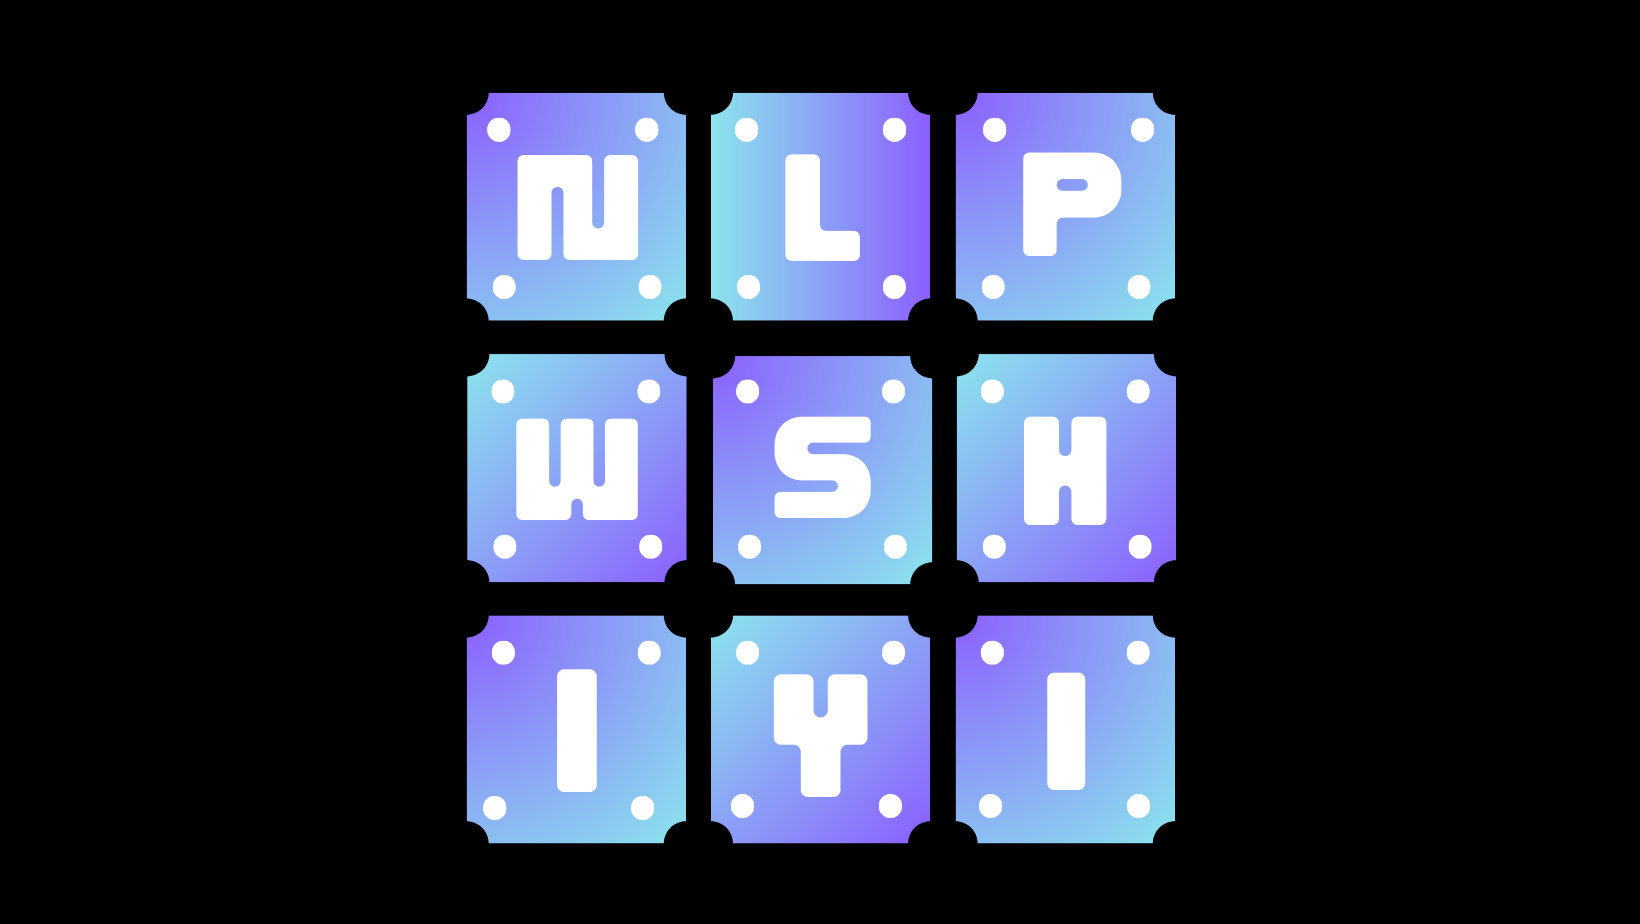
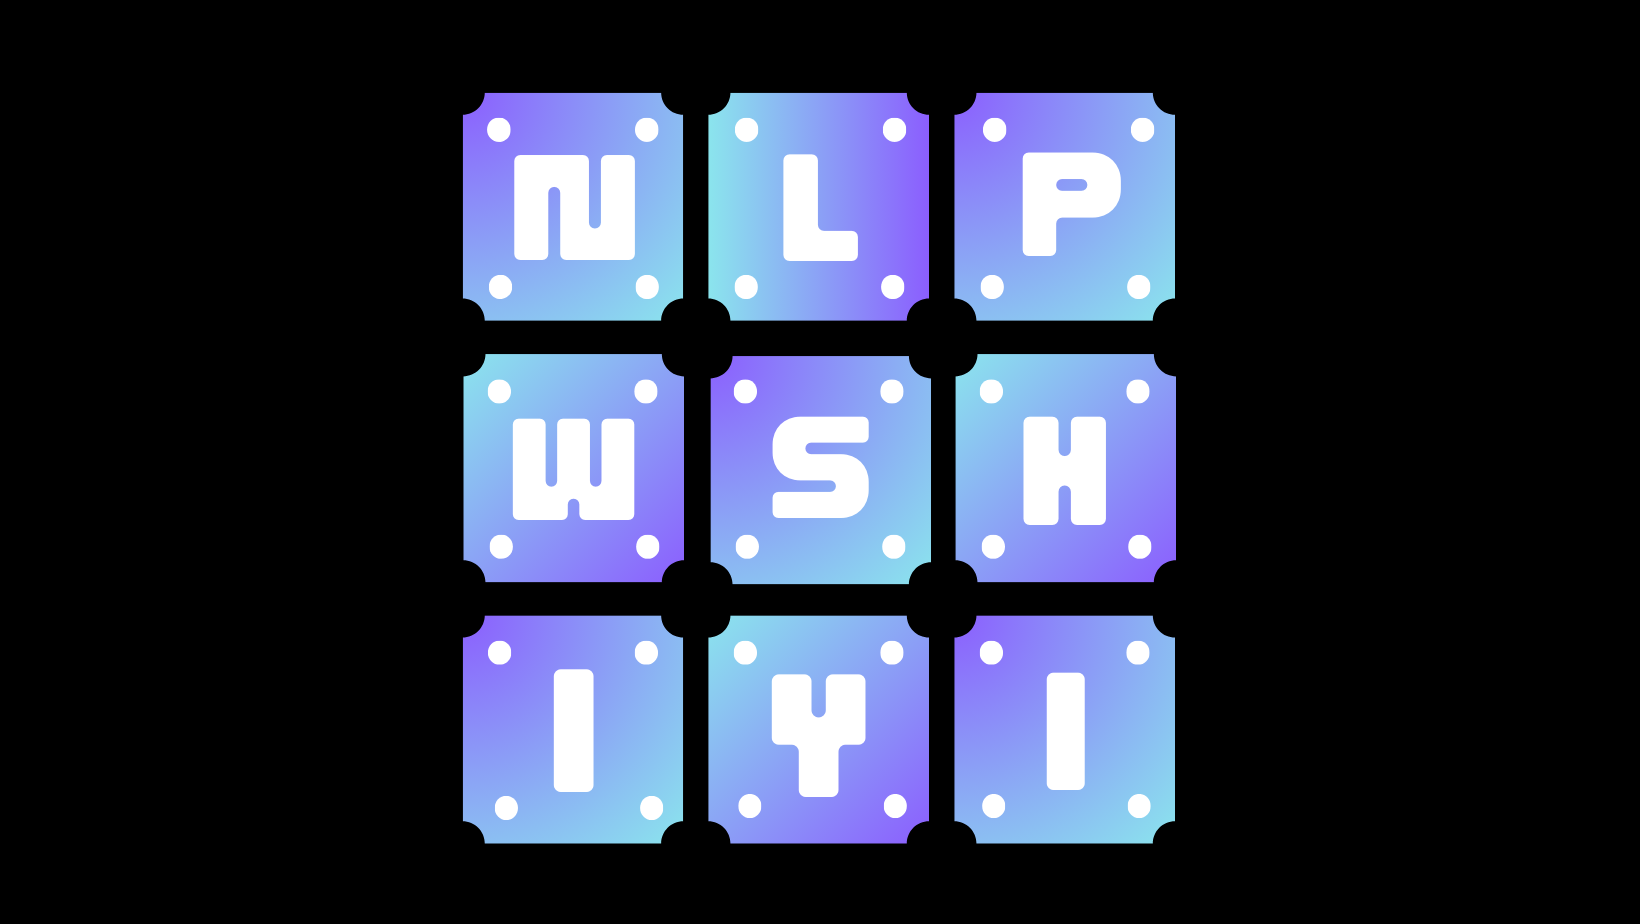
Deploying to main from  @ de4f84815487e2519d6d1444a09f3aa14193af24 🚀

diff --git a/index.html b/index.html
@@ -1,4 +1,4 @@
-<!doctype html> <html lang=en > <meta charset=UTF-8 > <meta name=viewport  content="width=device-width, initial-scale=1"> <link rel=stylesheet  href="/nlpwme/libs/highlight/styles/github.min.css"> <link rel=stylesheet  href="/nlpwme/css/franklin.css"> <link rel=stylesheet  href="https://fonts.googleapis.com/css?family=Source+Sans+Pro:400,700,400italic|Source+Code+Pro:400,700" type="text/css"> <link rel=stylesheet  href="/nlpwme/css/font-awesome.min.css"> <link rel=stylesheet  href="/nlpwme/css/celeste.min.css"> <link rel=icon  type="image/png" sizes=200x200  href="/nlpwme/assets/robot.png"> <link rel=icon  type="image/png" sizes=152x152  href="/nlpwme/assets/robot_smaller_152x152.png"> <link rel=icon  type="image/x-icon" sizes=64x64  href="/nlpwme/assets/robot_smaller_64x64.png"> <link rel=icon  type="image/x-icon" sizes=32x32  href="/nlpwme/assets/robot_smaller_32x32.png"> <link rel=icon  type="image/png" sizes=64x64  href="/nlpwme/assets/robot_smaller_64x64.png"> <link rel=icon  type="image/png" sizes=32x32  href="/nlpwme/assets/robot_smaller_32x32.png"> <title>NLPwShiyi - Natural Language Processing with Shiyi</title> <nav id=navbar  class=navigation  role=navigation > <input id=toggle1  type=checkbox  /> <label class=hamburger1  for=toggle1 > <div class=top ></div> <div class=meat ></div> <div class=bottom ></div> </label> <nav class="topnav mx-auto" id=myTopnav > <div class=dropdown > <button class=dropbtn >Comp Ling <i class="fa fa-caret-down"></i> </button> <div class=dropdown-content > <a href="/nlpwme/modules/1b-info-theory">Information Theory</a> <a href="/nlpwme/modules/1c-noisy-channel-model">The Noisy Channel Model</a> <a href="/nlpwme/modules/1d-finite-automata">FSAs and FSTs</a> <a href="/nlpwme/modules/1e-mutual-info">Mutual Information</a> <a href="/nlpwme/modules/1f-cky-algorithm">CKY Algorithm</a> <a href="/nlpwme/modules/1g-viterbi">Viterbi Algorithm</a> <a href="/nlpwme/modules/2b-markov-processes">Markov Processes</a> <a href="/nlpwme/modules/1h-semantics">Logic and Problem Solving</a> <a href="/nlpwme/modules/1j-bayesian">Bayesian Inference</a> </div> </div> <div class=dropdown > <button class=dropbtn  >ML / DL <i class="fa fa-caret-down"></i> </button> <div class=dropdown-content > <a href="/nlpwme/modules/2e-jax">Jacobian Matrices Derivation</a> <a href="/nlpwme/modules/2d-automatic-differentiation">Automatic Differentiation</a> <a href="/nlpwme/modules/2f-loss-functions">Stochastic GD</a> <a href="/nlpwme/modules/2c-word2vec">Word2Vec</a> <a href="/nlpwme/modules/2g-batchnorm">Batchnorm</a> <a href="/nlpwme/modules/2j-perplexity">Perplexity</a> <a href="/nlpwme/modules/2h-dropout">Dropout</a> <a href="/nlpwme/modules/2i-depth">Depth: Pros and Cons</a> <a href="/nlpwme/modules/2k-VAE">Variational Autoencoders</a> <a href="/nlpwme/modules/2l-dnns">DNNs(RNNs, CNNs, (Bi)-LSTM)</a> </div> </div> <a href="/nlpwme/" class=active >Intro </a> <div class=dropdown > <button class=dropbtn  >SOTA <i class="fa fa-caret-down"></i> </button> <div class=dropdown-content > <a href="/nlpwme/modules/3a-transformers"> GPT (Generative Pre-trained Transformer) </a> <a href="/nlpwme/modules/3b-xlnet"> XLNet (Generalized Autoregressive Pretraining) </a> <a href="/nlpwme/modules/3c-roberta"> RoBERTa (Robustly optimized BERT approach) </a> <a href="/nlpwme/modules/3d-t5"> T5 (Text-to-Text Transfer Transformer) </a> <a href="/nlpwme/modules/3e-clip"> CLIP (Contrastive Language-Image Pre-training) </a> </div> </div> <div class=dropdown > <button class=dropbtn  >Hands-on <i class="fa fa-caret-down"></i> </button> <div class=dropdown-content > <a href="/nlpwme/modules/4a-mlp-from-scratch">MLP from Scratch</a> <a href="/nlpwme/modules/4b-generative-adversarial-networks">GAN Example </a> <a href="/nlpwme/modules/4c-vae-mnist">VAE for MNIST</a> <a href="/nlpwme/modules/4d-bi-lstm-crf">BI-LSTM-CRF Seq2Seq</a> <a href="/nlpwme/modules/4e-c4fe-tbip">Measuring Subjectivity with VAE</a> <a href="/nlpwme/modules/4g-etl-job">Serverless ETL Example</a> <a href="/nlpwme/modules/4h-ocr-data-aug">OCR Text Augmentation</a> <a href="/nlpwme/modules/4i-neo4j-gql">Neo4j GQL Example</a> </div> </div> </nav> </nav> <script src="../assets/js/custom.js"></script> <div class=franklin-content ><p><img src="./assets/nlpwme.png" alt=intro  /></p> <h1 id=understanding_natural_language_processing_with_me ><a href="#understanding_natural_language_processing_with_me" class=header-anchor >Understanding Natural Language Processing with Me&#33;</a></h1> <p>Hi, I’m Shiyi. Welcome to my technical blog. Please check out this <a href="https://shiyis.github.io/nlp-doc">page</a> for a more detailed account of my journey with respect to learning Natural Language Processing. Here I will only be documenting the gists. I will be presenting everything I have learned so far, including important concepts, necessary code snippets, and more. I am by no means an expert in this subject, but I have gone through extensive studies and training in the fields and subfields related to have a good grasp of what’s important.</p> <p>Areas that I have dabbled in,</p> <pre><code class="julia hljs">→ General Linguistics
+<!doctype html> <html lang=en > <meta charset=UTF-8 > <meta name=viewport  content="width=device-width, initial-scale=1"> <link rel=stylesheet  href="/nlpwme/libs/highlight/styles/github.min.css"> <link rel=stylesheet  href="/nlpwme/css/franklin.css"> <link rel=stylesheet  href="https://fonts.googleapis.com/css?family=Source+Sans+Pro:400,700,400italic|Source+Code+Pro:400,700" type="text/css"> <link rel=stylesheet  href="/nlpwme/css/font-awesome.min.css"> <link rel=stylesheet  href="/nlpwme/css/celeste.min.css"> <link rel=icon  type="image/png" sizes=200x200  href="/nlpwme/assets/robot.png"> <link rel=icon  type="image/png" sizes=152x152  href="/nlpwme/assets/robot_smaller_152x152.png"> <link rel=icon  type="image/x-icon" sizes=64x64  href="/nlpwme/assets/robot_smaller_64x64.png"> <link rel=icon  type="image/x-icon" sizes=32x32  href="/nlpwme/assets/robot_smaller_32x32.png"> <link rel=icon  type="image/png" sizes=64x64  href="/nlpwme/assets/robot_smaller_64x64.png"> <link rel=icon  type="image/png" sizes=32x32  href="/nlpwme/assets/robot_smaller_32x32.png"> <title>NLPwShiyi - Natural Language Processing with Shiyi</title> <nav id=navbar  class=navigation  role=navigation > <input id=toggle1  type=checkbox  /> <label class=hamburger1  for=toggle1 > <div class=top ></div> <div class=meat ></div> <div class=bottom ></div> </label> <nav class="topnav mx-auto" id=myTopnav > <div class=dropdown > <button class=dropbtn >Comp Ling <i class="fa fa-caret-down"></i> </button> <div class=dropdown-content > <a href="/nlpwme/modules/1b-info-theory">Information Theory</a> <a href="/nlpwme/modules/1c-noisy-channel-model">The Noisy Channel Model</a> <a href="/nlpwme/modules/1d-finite-automata">FSAs and FSTs</a> <a href="/nlpwme/modules/1e-mutual-info">Mutual Information</a> <a href="/nlpwme/modules/1f-cky-algorithm">CKY Algorithm</a> <a href="/nlpwme/modules/1g-viterbi">Viterbi Algorithm</a> <a href="/nlpwme/modules/2b-markov-processes">Markov Processes</a> <a href="/nlpwme/modules/1h-semantics">Logic and Problem Solving</a> <a href="/nlpwme/modules/1j-bayesian">Bayesian Inference</a> </div> </div> <div class=dropdown > <button class=dropbtn  >ML / DL <i class="fa fa-caret-down"></i> </button> <div class=dropdown-content > <a href="/nlpwme/modules/2e-jax">Jacobian Matrices Derivation</a> <a href="/nlpwme/modules/2d-automatic-differentiation">Automatic Differentiation</a> <a href="/nlpwme/modules/2f-loss-functions">Stochastic GD</a> <a href="/nlpwme/modules/2c-word2vec">Word2Vec</a> <a href="/nlpwme/modules/2g-batchnorm">Batchnorm</a> <a href="/nlpwme/modules/2j-perplexity">Perplexity</a> <a href="/nlpwme/modules/2h-dropout">Dropout</a> <a href="/nlpwme/modules/2i-depth">Depth: Pros and Cons</a> <a href="/nlpwme/modules/2k-VAE">Variational Autoencoders</a> <a href="/nlpwme/modules/2l-dnns">DNNs(RNNs, CNNs, (Bi)-LSTM)</a> </div> </div> <a href="/nlpwme/" class=active >Intro </a> <div class=dropdown > <button class=dropbtn  >SOTA <i class="fa fa-caret-down"></i> </button> <div class=dropdown-content > <a href="/nlpwme/modules/3a-transformers"> GPT (Generative Pre-trained Transformer) </a> <a href="/nlpwme/modules/3b-xlnet"> XLNet (Generalized Autoregressive Pretraining) </a> <a href="/nlpwme/modules/3c-roberta"> RoBERTa (Robustly optimized BERT approach) </a> <a href="/nlpwme/modules/3d-t5"> T5 (Text-to-Text Transfer Transformer) </a> <a href="/nlpwme/modules/3e-clip"> CLIP (Contrastive Language-Image Pre-training) </a> </div> </div> <div class=dropdown > <button class=dropbtn  >Hands-on <i class="fa fa-caret-down"></i> </button> <div class=dropdown-content > <a href="/nlpwme/modules/4a-mlp-from-scratch">MLP from Scratch</a> <a href="/nlpwme/modules/4b-generative-adversarial-networks">GAN Example </a> <a href="/nlpwme/modules/4c-vae-mnist">VAE for MNIST</a> <a href="/nlpwme/modules/4d-bi-lstm-crf">BI-LSTM-CRF Seq2Seq</a> <a href="/nlpwme/modules/4e-c4fe-tbip">Measuring Subjectivity with VAE</a> <a href="/nlpwme/modules/4g-etl-job">Serverless ETL Example</a> <a href="/nlpwme/modules/4h-ocr-data-aug">OCR Text Augmentation</a> <a href="/nlpwme/modules/4i-neo4j-gql">Neo4j GQL Example</a> </div> </div> </nav> </nav> <script src="../assets/js/custom.js"></script> <div class=franklin-content ><p><img src="./assets/nlpwme2.png" alt=intro  /></p> <h1 id=understanding_natural_language_processing_with_me ><a href="#understanding_natural_language_processing_with_me" class=header-anchor >Understanding Natural Language Processing with Me&#33;</a></h1> <p>Hi, I’m Shiyi. Welcome to my technical blog. Please check out this <a href="https://shiyis.github.io/nlp-doc">page</a> for a more detailed account of my journey with respect to learning Natural Language Processing. Here I will only be documenting the gists. I will be presenting everything I have learned so far, including important concepts, necessary code snippets, and more. I am by no means an expert in this subject, but I have gone through extensive studies and training in the fields and subfields related to have a good grasp of what’s important.</p> <p>Areas that I have dabbled in,</p> <pre><code class="julia hljs">→ General Linguistics
 → Symbolic Computational Linguistics
 → Statistical Natural Language Processing
 → State of the Art Large Language Modeling</code></pre> <h3 id=the_subject_matter ><a href="#the_subject_matter" class=header-anchor ><strong>The Subject Matter</strong></a></h3> <p>What do we mean by Natural Language Processing? If we do a little googling and researching, it&#39;s very intuitive that natural language processing involves a set of solutions to various natural human language tasks. The most common ones are</p> <pre><code class="plaintext hljs">→ Sentiment analysis
